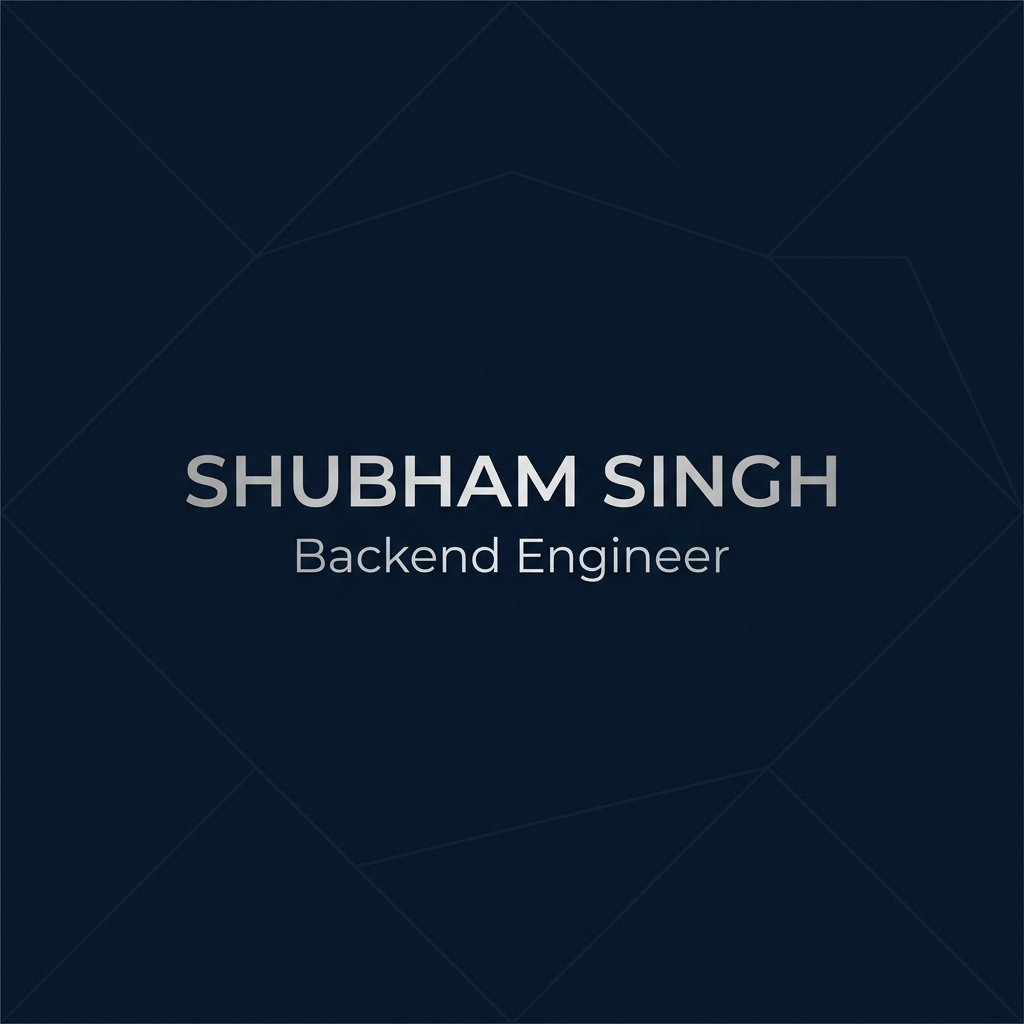
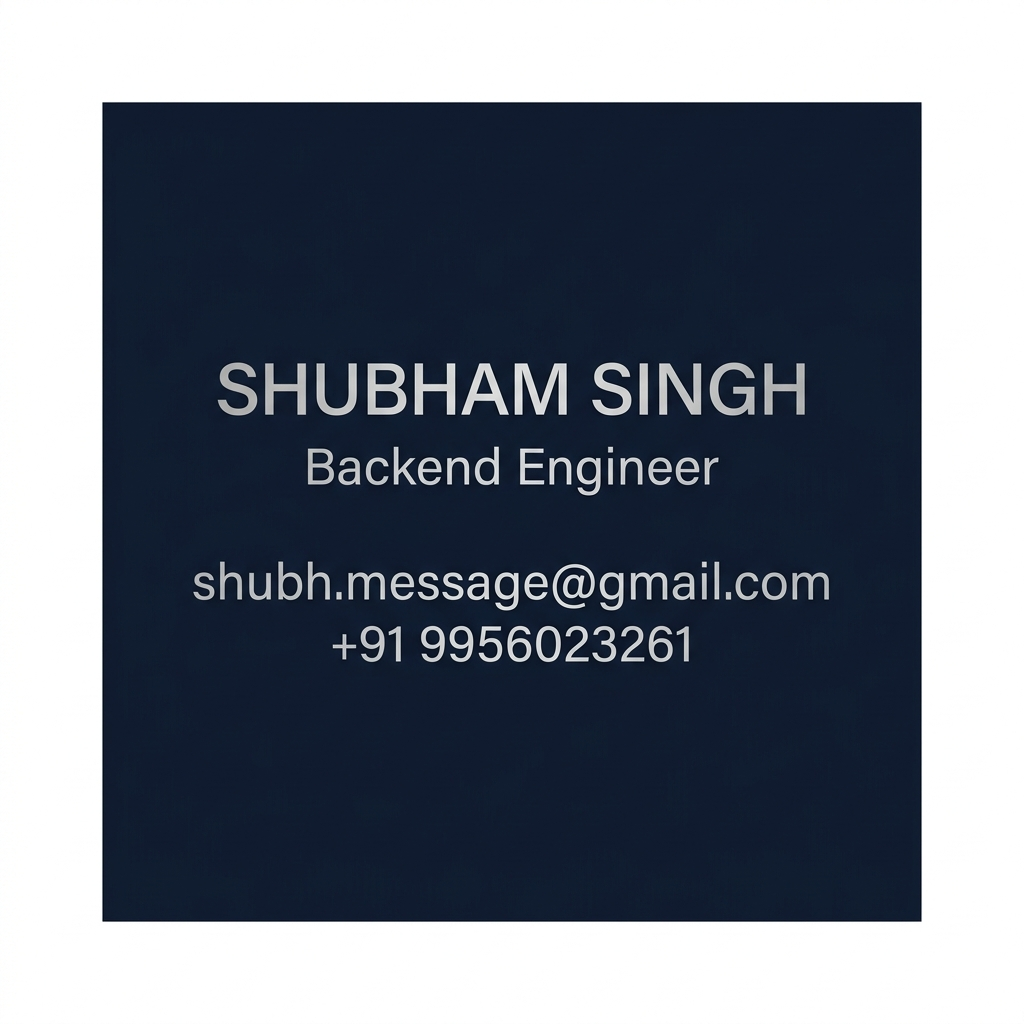
fix: change OG image to square aspect ratio with contact info for better WhatsApp parsing

diff --git a/index.html b/index.html
@@ -12,8 +12,8 @@
     <meta property="og:type" content="website" />
     <meta property="og:url" content="https://shubhxcluzive.vercel.app" />
     <meta property="og:image" content="https://shubhxcluzive.vercel.app/og-image.png" />
-    <meta property="og:image:width" content="1200" />
-    <meta property="og:image:height" content="630" />
+    <meta property="og:image:width" content="1000" />
+    <meta property="og:image:height" content="1000" />
     <meta property="og:image:alt" content="Shubham Singh Portfolio Preview" />
     <meta name="twitter:card" content="summary_large_image" />
     <meta name="twitter:title" content="Shubham Singh - Backend Engineer" />
